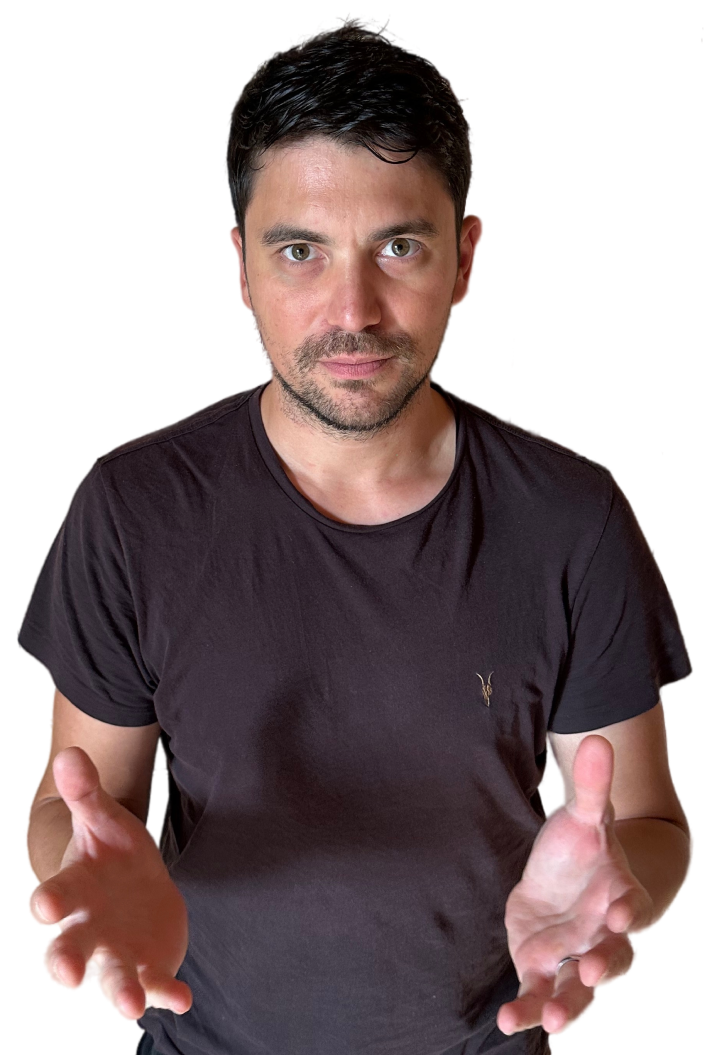
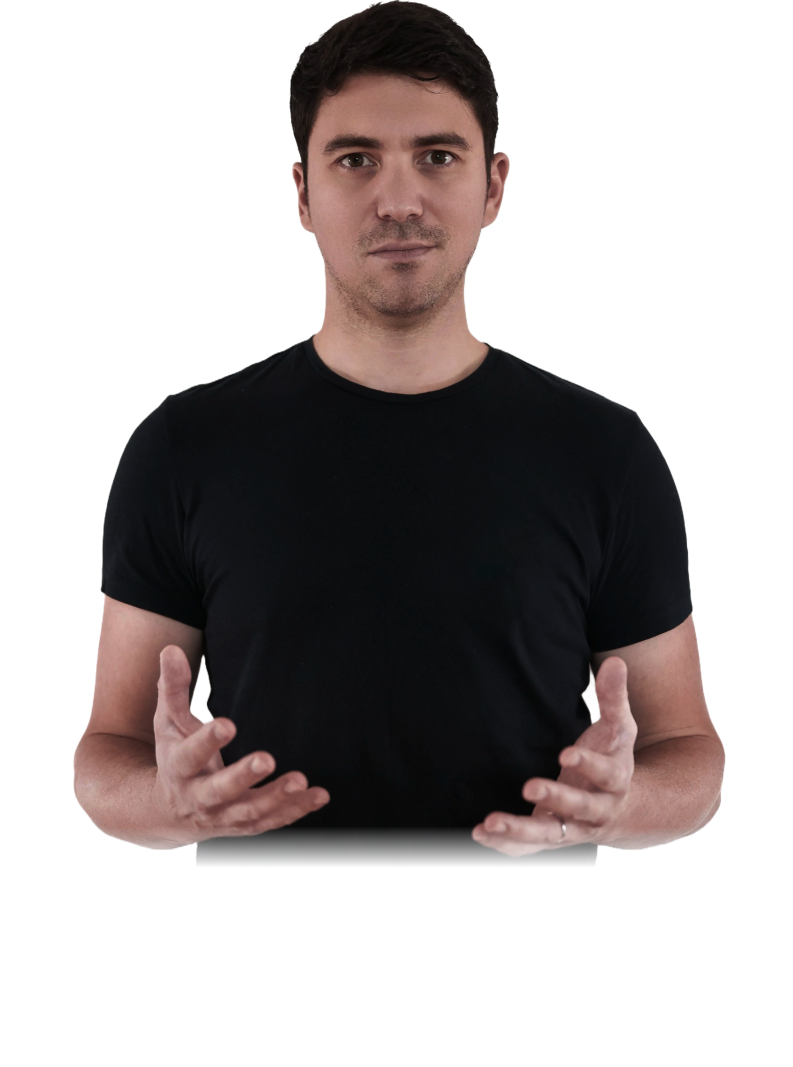
GA4 setup, Hero image changes

diff --git a/src/pages/index.jsx b/src/pages/index.jsx
@@ -146,15 +146,15 @@ export default function Home() {
                 animate="visible"
                 transition={{ duration: 4, delay: 1 }}
                 duration="6"
-                className=" absolute w-[300px] h-[400px]  min-[964px]:w-[500px] min-[964px]:h-[650px] bg-gradient-radial from-sky-500 to-90% to-transparent rounded-full filter blur-xl  z-0 "
+                className=" absolute right-8 w-[300px] h-[340px]  min-[964px]:w-[500px] min-[964px]:h-[550px] bg-gradient-radial from-sky-500 to-90% to-transparent rounded-full filter blur-xl  z-0 "
               ></motion.div>
               <img
                 src="/images/hero-photo.png"
-                alt="Jean Chane-to"
-                className=" max-h-[480px]  min-[964px]:max-h-[700px] min-w-[350px] object-cover relative "
+                alt=""
+                className=" max-h-[480px] min-[964px]:max-h-[750px] min-w-[350px] object-cover relative saturate-0  "
               />
             </div>
-            <div className="absolute bottom-1/3 translate-x-[150px] right-1/2 h-[200px] translate-y-[130px] min-[964px]:h-[300px] min-[964px]:w-[350px] min-[964px]:translate-x-[180px] min-[964px]:translate-y-[180px] cursor-pointer ">
+            <div className="absolute bottom-1/3 translate-x-[155px] right-1/2 h-[200px] w-[300px] translate-y-[40px] min-[964px]:h-[300px] min-[964px]:w-[350px] min-[964px]:translate-x-[179px] min-[964px]:translate-y-[46px] cursor-pointer ">
               <Hero3d />
             </div>
           </motion.div>{" "}

diff --git a/src/pages/_app.jsx b/src/pages/_app.jsx
@@ -4,6 +4,7 @@ import { ModalProvider } from "@/store/ModalContext";
 import "@/styles/globals.css";
 import { AnimatePresence, motion } from "framer-motion";
 import { useRouter } from "next/router";
+import Script from "next/script";
 
 const pageVariants = {
   hidden: { opacity: 0 },
@@ -11,11 +12,29 @@ const pageVariants = {
   exit: { opacity: 0, transition: { duration: 0.75 } },
 };
 
+const isProduction = process.env.NODE_ENV === "production";
+
 export default function App({ Component, pageProps }) {
   const router = useRouter();
   return (
     <ModalProvider>
       <Layout>
+        {isProduction && (
+          <>
+            <Script
+              strategy="afterInteractive"
+              src="https://www.googletagmanager.com/gtag/js?id=G-0YMSG07Z9V"
+            ></Script>
+            <Script strategy="afterInteractive">
+              {`
+            window.dataLayer = window.dataLayer || [];
+            function gtag(){dataLayer.push(arguments);}
+          gtag('js', new Date()); 
+          gtag('config','${process.env.NEXT_PUBLIC_GA_MEASUREMENT_ID}');
+  `}
+            </Script>
+          </>
+        )}
         <AnimatePresence mode="wait">
           <motion.div
             key={router.route}

diff --git a/src/components/Hero3d.jsx b/src/components/Hero3d.jsx
@@ -28,7 +28,7 @@ export default function Hero3d() {
 
   return (
     <Canvas camera={{ position: [0, 0, 10] }}>
-      <OrbitControls enableZoom={false} />
+      {/* <OrbitControls enableZoom={false} /> */}
       <motion.mesh rotation-y={mouse.x} rotation-x={mouse.y}>
         <Float speed={4} rotationIntensity={1} floatIntensity={2}>
           <Atom />
